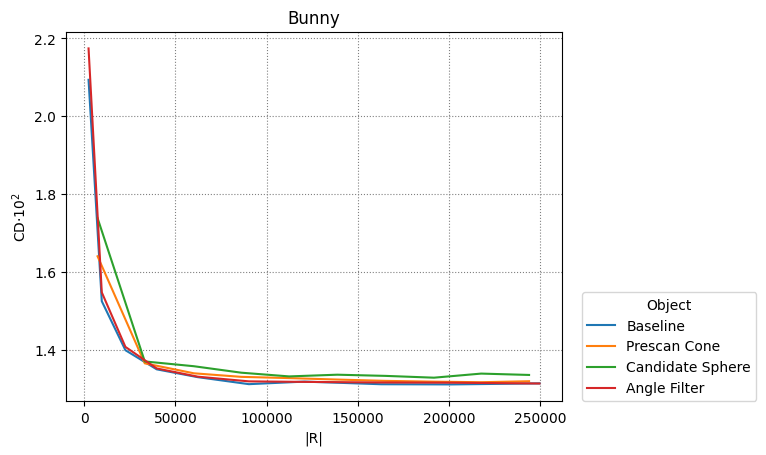
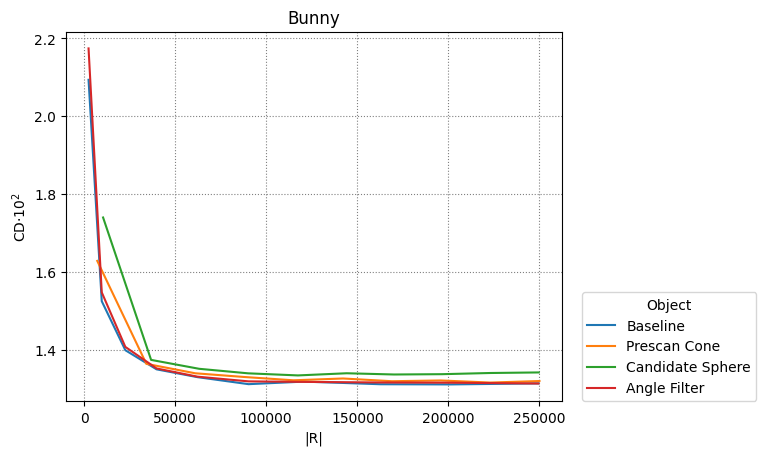
chamfer dist

diff --git a/ray_field/prescan_cone.py b/ray_field/prescan_cone.py
@@ -11,7 +11,7 @@ from numpy import ndarray
 
 class PrescanCone(Algorithm):
     prescan_n: int = 64
-    targeted_m: str = '128'
+    targeted_m: str = '64'
     chamfer_samples: int = 2
 
     def surface_reconstruction(model_name: CheckpointName, N: int) -> TriangleMesh:
@@ -70,7 +70,8 @@ class PrescanCone(Algorithm):
 
     def chamfer(model_name: CheckpointName, length: int) -> tuple[list[float], list[int]]:
         model, device = utils.init_model(model_name)
-        N_values = np.linspace(50, 1900, length, dtype=int)
+        N_end = (250000 - (PrescanCone.prescan_n ** 2)) / int(PrescanCone.targeted_m)
+        N_values = np.linspace(50, N_end, length, dtype=int)
 
         distances = np.zeros(len(N_values))
         R_values = np.zeros(len(N_values), dtype=int)
@@ -83,21 +84,25 @@ class PrescanCone(Algorithm):
 
             for i in range(len(N_values)):
                 N = N_values[i]
-                print(N, end='\t')
+                print(f'N: {N}')
 
-                origins, dirs = PrescanCone._generate_cone_rays(broad_intersections, N, device, PrescanCone.targeted_m)
-                intersections, intersection_normals = PrescanCone._targeted_scan(model, origins, dirs)
-                intersections, intersection_normals = PrescanCone._cat_and_move(intersections, intersection_normals, broad_intersections, broad_normals)
+                for k in range(PrescanCone.chamfer_samples):
+                    origins, dirs = PrescanCone._generate_cone_rays(broad_intersections, N, device, PrescanCone.targeted_m)
+                    intersections, intersection_normals = PrescanCone._targeted_scan(model, origins, dirs)
+                    intersections, intersection_normals = PrescanCone._cat_and_move(intersections, intersection_normals, broad_intersections, broad_normals)
 
-                R_values[i] = R_values[i] + (dirs.shape[0] * dirs.shape[2])
-        
-                mesh = utils.poisson_surface_reconstruction(intersections, intersection_normals, PrescanCone.poisson_depth)
-                distance = utils.chamfer_distance_to_stanford(model_name, mesh, PrescanCone.dist_samples)
+                    if (k == 0):
+                        R_values[i] = R_values[i] + (dirs.shape[0] * dirs.shape[2])
+            
+                    mesh = utils.poisson_surface_reconstruction(intersections, intersection_normals, PrescanCone.poisson_depth)
+                    distance = utils.chamfer_distance_to_stanford(model_name, mesh, PrescanCone.dist_samples)
 
-                distances[i] = distance
-                print(f'{distance:.5f}')
+                    distances[i] = distances[i] + distance
 
-                del origins, dirs, intersections, intersection_normals, mesh
+                    del origins, dirs, intersections, intersection_normals, mesh
+                    torch.cuda.empty_cache()
+                    gc.collect()
+                
                 torch.cuda.empty_cache()
                 gc.collect()
             
@@ -108,6 +113,8 @@ class PrescanCone(Algorithm):
         del model
         torch.cuda.empty_cache()
         gc.collect()
+
+        distances = distances / PrescanCone.chamfer_samples
 
         return distances, R_values
     

diff --git a/ray_field/candidate_sphere.py b/ray_field/candidate_sphere.py
@@ -70,7 +70,8 @@ class CandidateSphere(Algorithm):
 
     def chamfer(model_name: CheckpointName, length: int) -> tuple[list[float], list[int]]:
         model, device = utils.init_model(model_name)
-        N_values = np.linspace(50, 1900, length, dtype=int)
+        N_end = (250000 - (CandidateSphere.prescan_n ** 2)) / (int(CandidateSphere.targeted_m) * 16)
+        N_values = np.linspace(50, N_end, length, dtype=int)
 
         distances = np.zeros(len(N_values))
         R_values = np.zeros(len(N_values), dtype=int)
@@ -88,26 +89,32 @@ class CandidateSphere(Algorithm):
 
             for i in range(len(N_values)):
                 N = N_values[i]
-                print(N, end='\t')
+                print(f'N: {N}')
 
-                origins, dirs = CandidateSphere._generate_candidate_rays(radii, centers, N, device, CandidateSphere.targeted_m)
-                intersections, intersection_normals = CandidateSphere._targeted_scan(model, origins, dirs)
+                for k in range(CandidateSphere.chamfer_samples):
+                    origins, dirs = CandidateSphere._generate_candidate_rays(radii, centers, N, device, CandidateSphere.targeted_m)
+                    intersections, intersection_normals = CandidateSphere._targeted_scan(model, origins, dirs)
 
-                R_values[i] = R_values[i] + (dirs.shape[0] * dirs.shape[2])
-        
-                mesh = utils.poisson_surface_reconstruction(intersections, intersection_normals, CandidateSphere.poisson_depth)
-                distance = utils.chamfer_distance_to_stanford(model_name, mesh, CandidateSphere.dist_samples)
+                    if k == 0:
+                        R_values[i] = R_values[i] + (dirs.shape[0] * dirs.shape[2])
+            
+                    mesh = utils.poisson_surface_reconstruction(intersections, intersection_normals, CandidateSphere.poisson_depth)
+                    distance = utils.chamfer_distance_to_stanford(model_name, mesh, CandidateSphere.dist_samples)
 
-                distances[i] = distance
-                print(f'{distance:.6f}')
+                    distances[i] = distances[i] + distance
 
-                del origins, dirs, intersections, intersection_normals, mesh
+                    del origins, dirs, intersections, intersection_normals, mesh
+                    torch.cuda.empty_cache()
+                    gc.collect()
+
                 torch.cuda.empty_cache()
                 gc.collect()
         
         del model
         torch.cuda.empty_cache()
         gc.collect()
+
+        distances = distances / CandidateSphere.chamfer_samples
 
         return distances, R_values
 
